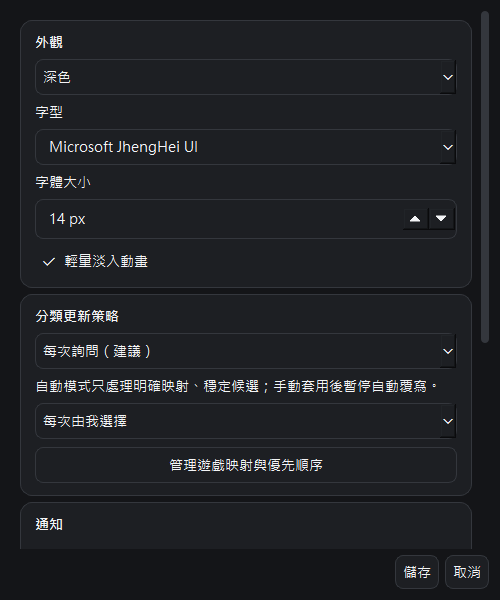
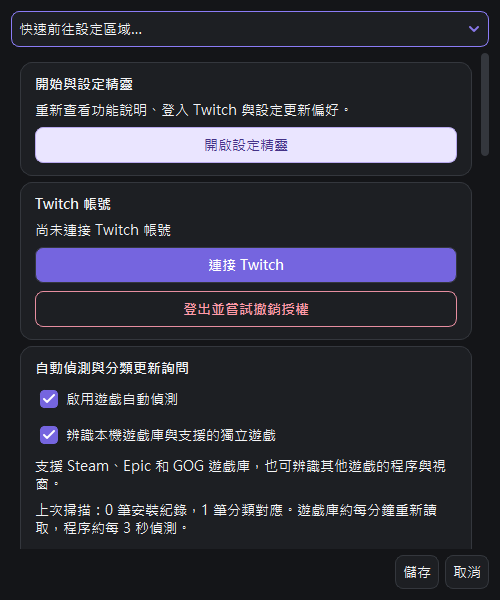
Refresh README screenshots for current interface

Changed region(s): [[0.03, 0.03, 0.93, 0.9], [0.96, 0.24, 0.99, 0.57], [0.93, 0.0, 0.99, 0.09]]

diff --git a/tests/ui-check.cpp b/tests/ui-check.cpp
@@ -582,6 +582,7 @@ int main(int argc, char **argv)
     int result = 0;
     QTimer::singleShot(100, &app, [&] {
         if (!dock.grab().save(output + "/dock-dark.png")) result = 3;
+        if (!tca::DockTestAccess::preview(dock, output + "/dock-preview-dark.png")) result = 3;
         dock.resize(280, 700); app.processEvents();
         if (!dock.grab().save(output + "/dock-narrow.png")) result = 4;
         QPushButton *settingsButton = nullptr;

diff --git a/README.md b/README.md
@@ -12,7 +12,7 @@
 
 <img src="docs/images/dock-preview.png" alt="Twitch 分類助手面板" width="380">
 
-畫面為測試帳號示意，實際內容會依帳號與設定改變。
+畫面使用測試資料示意，登入狀態與收藏內容會依個人設定改變。
 
 ## 安裝
 
